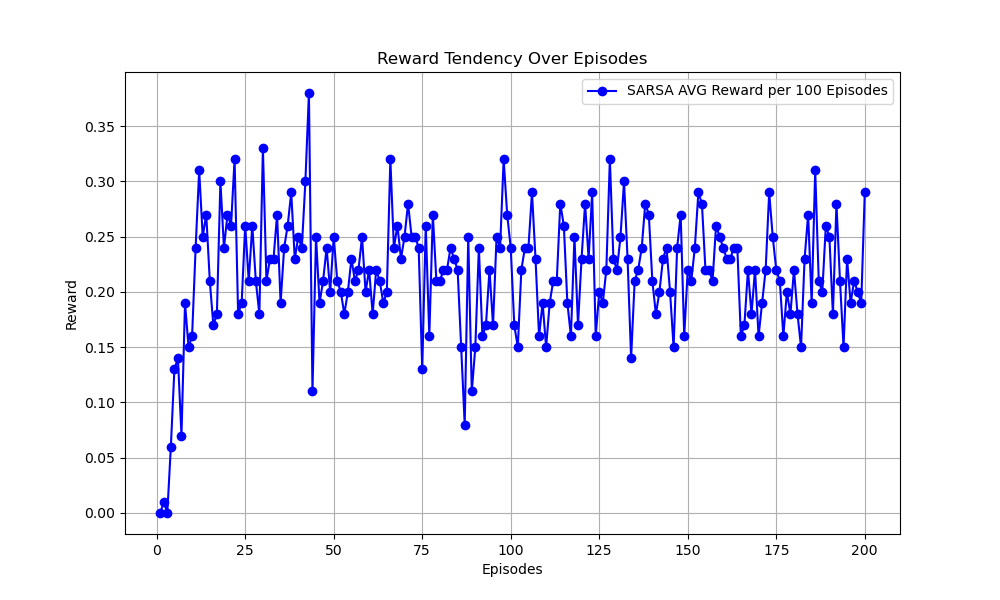
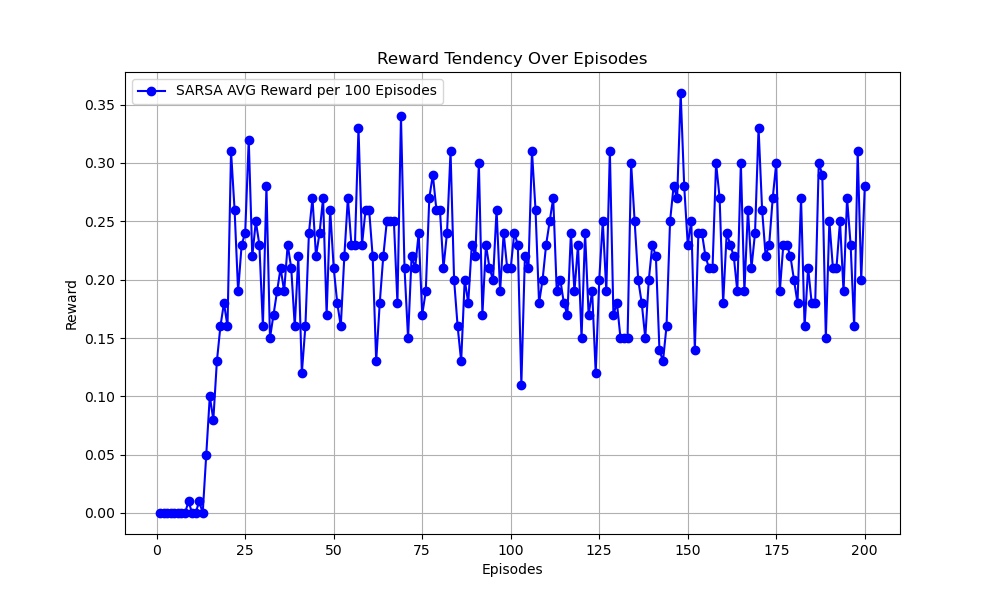
using terminate and truncated

diff --git a/DuelingDQN/dueldqn.py b/DuelingDQN/dueldqn.py
@@ -96,15 +96,15 @@ class DuelingCritic(nn.Module):
 
 # DQN with Target Separation AGENT
 class DQNTARGETAGENT(object):
-    def __init__(self, num_inputs, num_actions):
+    def __init__(self, num_inputs, num_actions, lr_c=1e-3):
         super(DQNTARGETAGENT, self).__init__()
 
         # num_inputs: env.observation_space.shape[0]
         # num_actions: env.action_space.n
-        self.critic = DuelingCritic(128, num_inputs, num_actions)
-        self.critic_target = DuelingCritic(128, num_inputs, num_actions)
+        self.critic = DuelingCritic(256, num_inputs, num_actions)
+        self.critic_target = DuelingCritic(256, num_inputs, num_actions)
         
-        self.optim = optim.Adam(self.critic.parameters())
+        self.optim = optim.Adam(self.critic.parameters(), lr=lr_c)
         self.num_actions = num_actions
 
         hard_update(self.critic_target, self.critic)
@@ -175,17 +175,18 @@ class DQNTARGETAGENT(object):
 env_id = "CartPole-v1"
 env = gym.make(env_id)
 total_episodes = 20000
-batch_size = 256
+batch_size = 128
 gamma      = 0.99
 tau = 0.0002
+lr_c=3e-3
 
 losses = []
 all_rewards = []
 ewma_reward = 0
 
-dqnTargetAgent = DQNTARGETAGENT(env.observation_space.shape[0], env.action_space.n)
+dqnTargetAgent = DQNTARGETAGENT(env.observation_space.shape[0], env.action_space.n, lr_c)
 
-replay_buffer = ReplayMemory(10000)
+replay_buffer = ReplayMemory(100000)
 
 for episode_idx in range(1, total_episodes + 1):
     initState, info = env.reset()
@@ -194,11 +195,12 @@ for episode_idx in range(1, total_episodes + 1):
     done = False
     episode_reward = 0
     step = 0
-    while not done and step < 500:
+    while not done :
         step = step+1
         action = dqnTargetAgent.action_selection(state, epsilon) #select action from updated q net
-        next_state, reward, done, truncated, info = env.step(action)
+        next_state, reward, terminate, truncated, info = env.step(action)
         
+        done = terminate or truncated
         replay_buffer.push(
             state, 
             torch.tensor([action], device=deviceGPU), 

diff --git a/DQN/dqn_target.py b/DQN/dqn_target.py
@@ -79,15 +79,15 @@ class Critic(nn.Module):
 
 # DQN with Target Separation AGENT
 class DQNTARGETAGENT(object):
-    def __init__(self, num_inputs, num_actions):
+    def __init__(self, num_inputs, num_actions, lr_c=1e-3):
         super(DQNTARGETAGENT, self).__init__()
 
         # num_inputs: env.observation_space.shape[0]
         # num_actions: env.action_space.n
-        self.critic = Critic(128, num_inputs, num_actions)
-        self.critic_target = Critic(128, num_inputs, num_actions)
+        self.critic = Critic(256, num_inputs, num_actions)
+        self.critic_target = Critic(256, num_inputs, num_actions)
         
-        self.optim = optim.Adam(self.critic.parameters())
+        self.optim = optim.Adam(self.critic.parameters(), lr=lr_c)
         self.num_actions = num_actions
 
         hard_update(self.critic_target, self.critic)
@@ -158,17 +158,18 @@ class DQNTARGETAGENT(object):
 env_id = "CartPole-v1"
 env = gym.make(env_id)
 total_episodes = 20000
-batch_size = 256
+batch_size = 128
 gamma      = 0.99
 tau = 0.0002
+lr_c = 3e-3
 
 losses = []
 all_rewards = []
 ewma_reward = 0
 
-dqnTargetAgent = DQNTARGETAGENT(env.observation_space.shape[0], env.action_space.n)
+dqnTargetAgent = DQNTARGETAGENT(env.observation_space.shape[0], env.action_space.n, lr_c)
 
-replay_buffer = ReplayMemory(10000)
+replay_buffer = ReplayMemory(100000)
 
 for episode_idx in range(1, total_episodes + 1):
     initState, info = env.reset()
@@ -177,11 +178,12 @@ for episode_idx in range(1, total_episodes + 1):
     done = False
     episode_reward = 0
     step = 0
-    while not done and step < 500:
+    while not done:
         step = step+1
         action = dqnTargetAgent.action_selection(state, epsilon) #select action from updated q net
-        next_state, reward, done, truncated, info = env.step(action)
+        next_state, reward, terminate, truncated, info = env.step(action)
         
+        done = terminate or truncated
         replay_buffer.push(
             state, 
             torch.tensor([action], device=deviceGPU), 

diff --git a/DDQN/ddqn.py b/DDQN/ddqn.py
@@ -79,15 +79,15 @@ class Critic(nn.Module):
 
 # DDQN AGENT
 class DDQNAGENT(object):
-    def __init__(self, num_inputs, num_actions):
+    def __init__(self, num_inputs, num_actions, lr_c=1e-3):
         super(DDQNAGENT, self).__init__()
 
         # num_inputs: env.observation_space.shape[0]
         # num_actions: env.action_space.n
-        self.critic = Critic(128, num_inputs, num_actions)
-        self.critic_target = Critic(128, num_inputs, num_actions)
+        self.critic = Critic(256, num_inputs, num_actions)
+        self.critic_target = Critic(256, num_inputs, num_actions)
         
-        self.optim = optim.Adam(self.critic.parameters())
+        self.optim = optim.Adam(self.critic.parameters(), lr=lr_c)
         self.num_actions = num_actions
 
         hard_update(self.critic_target, self.critic)
@@ -161,17 +161,18 @@ class DDQNAGENT(object):
 env_id = "CartPole-v1"
 env = gym.make(env_id)
 total_episodes = 20000
-batch_size = 256
+batch_size = 128
 gamma      = 0.99
 tau = 0.0002
+lr_c = 3e-3
 
 losses = []
 all_rewards = []
 ewma_reward = 0
 
-ddqnAgent = DDQNAGENT(env.observation_space.shape[0], env.action_space.n)
+ddqnAgent = DDQNAGENT(env.observation_space.shape[0], env.action_space.n, lr_c)
 
-replay_buffer = ReplayMemory(10000)
+replay_buffer = ReplayMemory(100000)
 
 for episode_idx in range(1, total_episodes + 1):
     initState, info = env.reset()
@@ -180,11 +181,12 @@ for episode_idx in range(1, total_episodes + 1):
     done = False
     episode_reward = 0
     step = 0
-    while not done and step < 500:
+    while not done :
         step = step+1
         action = ddqnAgent.action_selection(state, epsilon) #select action from updated q net
-        next_state, reward, done, truncated, info = env.step(action)
+        next_state, reward, terminate, truncated, info = env.step(action)
         
+        done = terminate or truncated
         replay_buffer.push(
             state, 
             torch.tensor([action], device=deviceGPU), 

diff --git a/DQN/dqn.py b/DQN/dqn.py
@@ -70,13 +70,13 @@ class Critic(nn.Module):
 
 # DQN AGENT
 class DQNAGENT(object):
-    def __init__(self, num_inputs, num_actions):
+    def __init__(self, num_inputs, num_actions, lr_c=1e-3):
         super(DQNAGENT, self).__init__()
 
         # num_inputs: env.observation_space.shape[0]
         # num_actions: env.action_space.n
-        self.critic = Critic(128, num_inputs, num_actions)
-        self.optim = optim.Adam(self.critic.parameters())
+        self.critic = Critic(256, num_inputs, num_actions)
+        self.optim = optim.Adam(self.critic.parameters(), lr=lr_c)
         self.num_actions = num_actions
 
     def action_selection(self, state, epsilon):
@@ -141,16 +141,17 @@ class DQNAGENT(object):
 env_id = "CartPole-v1"
 env = gym.make(env_id)
 total_episodes = 20000
-batch_size = 256
+batch_size = 128
 gamma      = 0.99
+lr_c = 3e-3
 
 losses = []
 all_rewards = []
 ewma_reward = 0
 
-dqnAgent = DQNAGENT(env.observation_space.shape[0], env.action_space.n)
+dqnAgent = DQNAGENT(env.observation_space.shape[0], env.action_space.n, lr_c)
 
-replay_buffer = ReplayMemory(10000)
+replay_buffer = ReplayMemory(100000)
 
 for episode_idx in range(1, total_episodes + 1):
     initState, info = env.reset()
@@ -159,11 +160,12 @@ for episode_idx in range(1, total_episodes + 1):
     done = False
     episode_reward = 0
     step = 0
-    while not done and step < 500:
+    while not done:
         step = step+1
         action = dqnAgent.action_selection(state, epsilon) #select action from updated q net
-        next_state, reward, done, truncated, info = env.step(action)
+        next_state, reward, terminate, truncated, info = env.step(action)
         
+        done = terminate or truncated
         replay_buffer.push(
             state, 
             torch.tensor([action], device=deviceGPU), 

diff --git a/DDPG_OffPolicy-DAC/ddpg.py b/DDPG_OffPolicy-DAC/ddpg.py
@@ -240,12 +240,13 @@ def train():
         step = 0
         episode_v_losses = 0
         episode_p_losses = 0
-        while not done and step<=200:
+        while not done :
             step = step +1
-
+            
             action = ddpgAgent.select_action(state, ounoise.noise())
-            next_state, reward, done, truncated, info = env.step(action.numpy()[0])
+            next_state, reward, terminate, truncated, info = env.step(action.numpy()[0])
 
+            done = terminate or truncated
             replay_buffer.push(
                 state, 
                 torch.tensor([action], device=deviceGPU), 
@@ -268,7 +269,6 @@ def train():
                 episode_v_losses += value_loss.item()
 
         # update EWMA reward and log the results
-        step-=1
         p_losses.append(episode_p_losses/step)
         v_losses.append(episode_v_losses/step)
         ewma_reward = 0.05 * episode_reward + (1 - 0.05) * ewma_reward

diff --git a/Expected-SARSA/expSarsa.py b/Expected-SARSA/expSarsa.py
@@ -100,16 +100,17 @@ for episode in range(total_episodes):
     t = 0
     state1, info = env.reset()
     action1 = expSarsaAgent.choose_action(state1)
- 
+    done = False
     #Initializing the reward
     episodesReward = 0
-    while t < max_steps:
+    while not done:
         #Visualizing the training
         env.render()
 
         #Getting the next state
-        state2, reward, done, truncated, info = env.step(action1)
- 
+        state2, reward, terminate, truncated, info = env.step(action1)
+
+        done = terminate or truncated
         #Choosing the next action
         action2 = expSarsaAgent.choose_action(state2)
          

diff --git a/SARSA/sarsa.py b/SARSA/sarsa.py
@@ -78,16 +78,17 @@ for episode in range(total_episodes):
     t = 0
     state1, info = env.reset()
     action1 = sarsaAgent.choose_action(state1)
- 
+    done =False
     #Initializing the reward
     episodesReward = 0
-    while t < max_steps:
+    while not done:
         #Visualizing the training
         env.render()
 
         #Getting the next state
-        state2, reward, done, truncated, info = env.step(action1)
+        state2, reward, terminate, truncated, info = env.step(action1)
  
+        done = terminate or truncated
         #Choosing the next action
         action2 = sarsaAgent.choose_action(state2)
          

diff --git a/Double-Q-Learning/doubleql.py b/Double-Q-Learning/doubleql.py
@@ -88,16 +88,17 @@ for episode in range(total_episodes):
     t = 0
     state1, info = env.reset()
     action1 = dqlAgent.choose_action(state1)
- 
+    done = False
     #Initializing the reward
     episodesReward = 0
-    while t < max_steps:
+    while not done:
         #Visualizing the training
         env.render()
 
         #Getting the next state
-        state2, reward, done, truncated, info = env.step(action1)
- 
+        state2, reward, terminate, truncated, info = env.step(action1)
+
+        done = terminate or truncated
         #Choosing the next action
         action2 = dqlAgent.choose_action(state2)
          

diff --git a/Q-Learning/ql.py b/Q-Learning/ql.py
@@ -78,16 +78,17 @@ for episode in range(total_episodes):
     t = 0
     state1, info = env.reset()
     action1 = qlAgent.choose_action(state1)
- 
+    done =False
     #Initializing the reward
     episodesReward = 0
-    while t < max_steps:
+    while not done:
         #Visualizing the training
         env.render()
 
         #Getting the next state
-        state2, reward, done, truncated, info = env.step(action1)
- 
+        state2, reward, terminate, truncated, info = env.step(action1)
+
+        done = terminate or truncated
         #Choosing the next action
         action2 = qlAgent.choose_action(state2)
          
